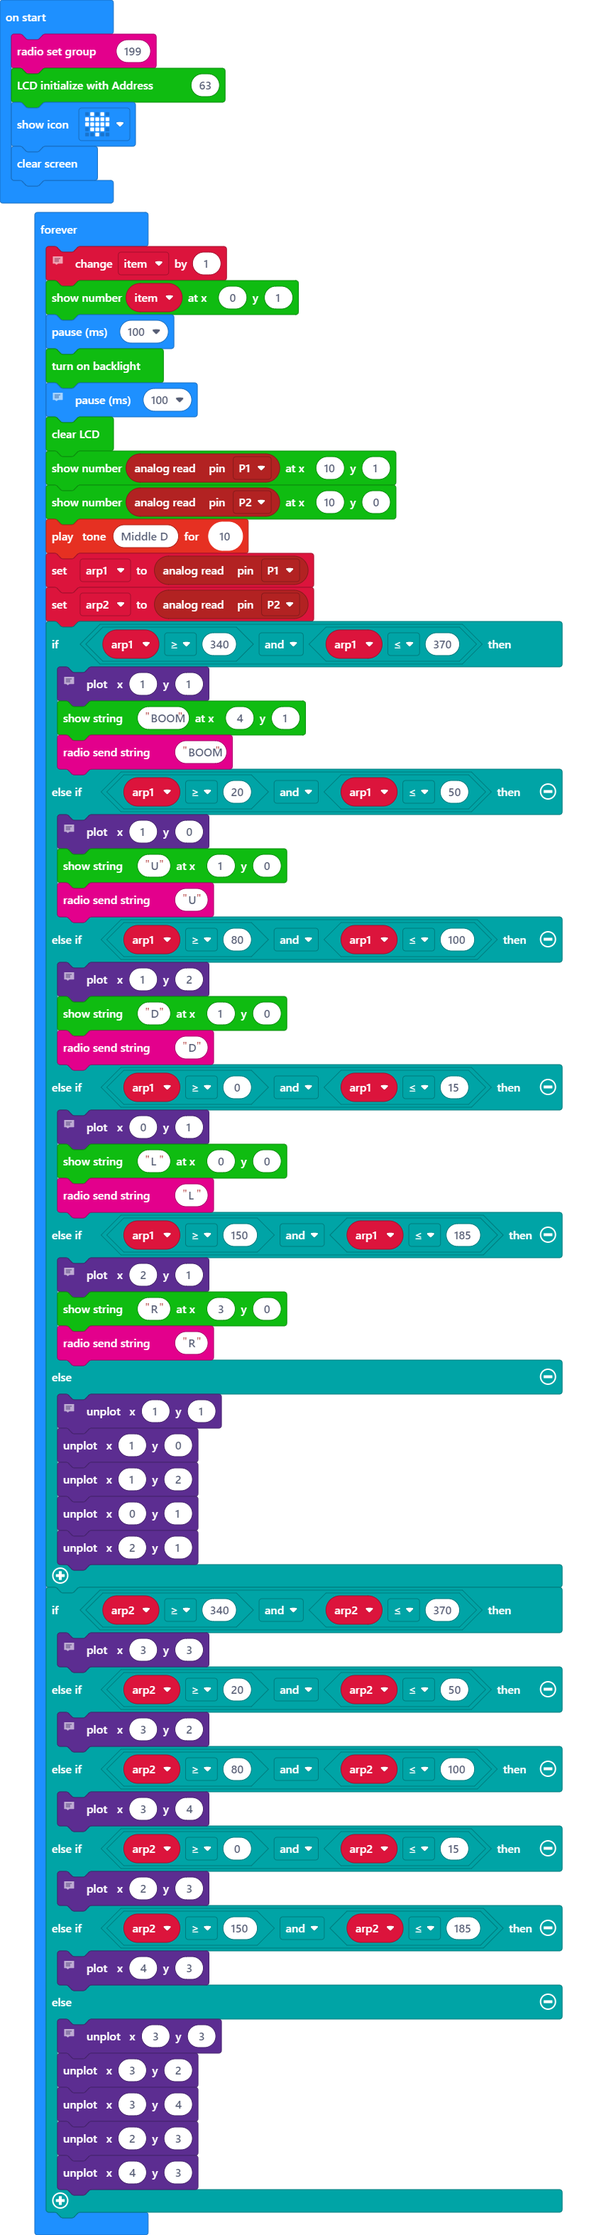
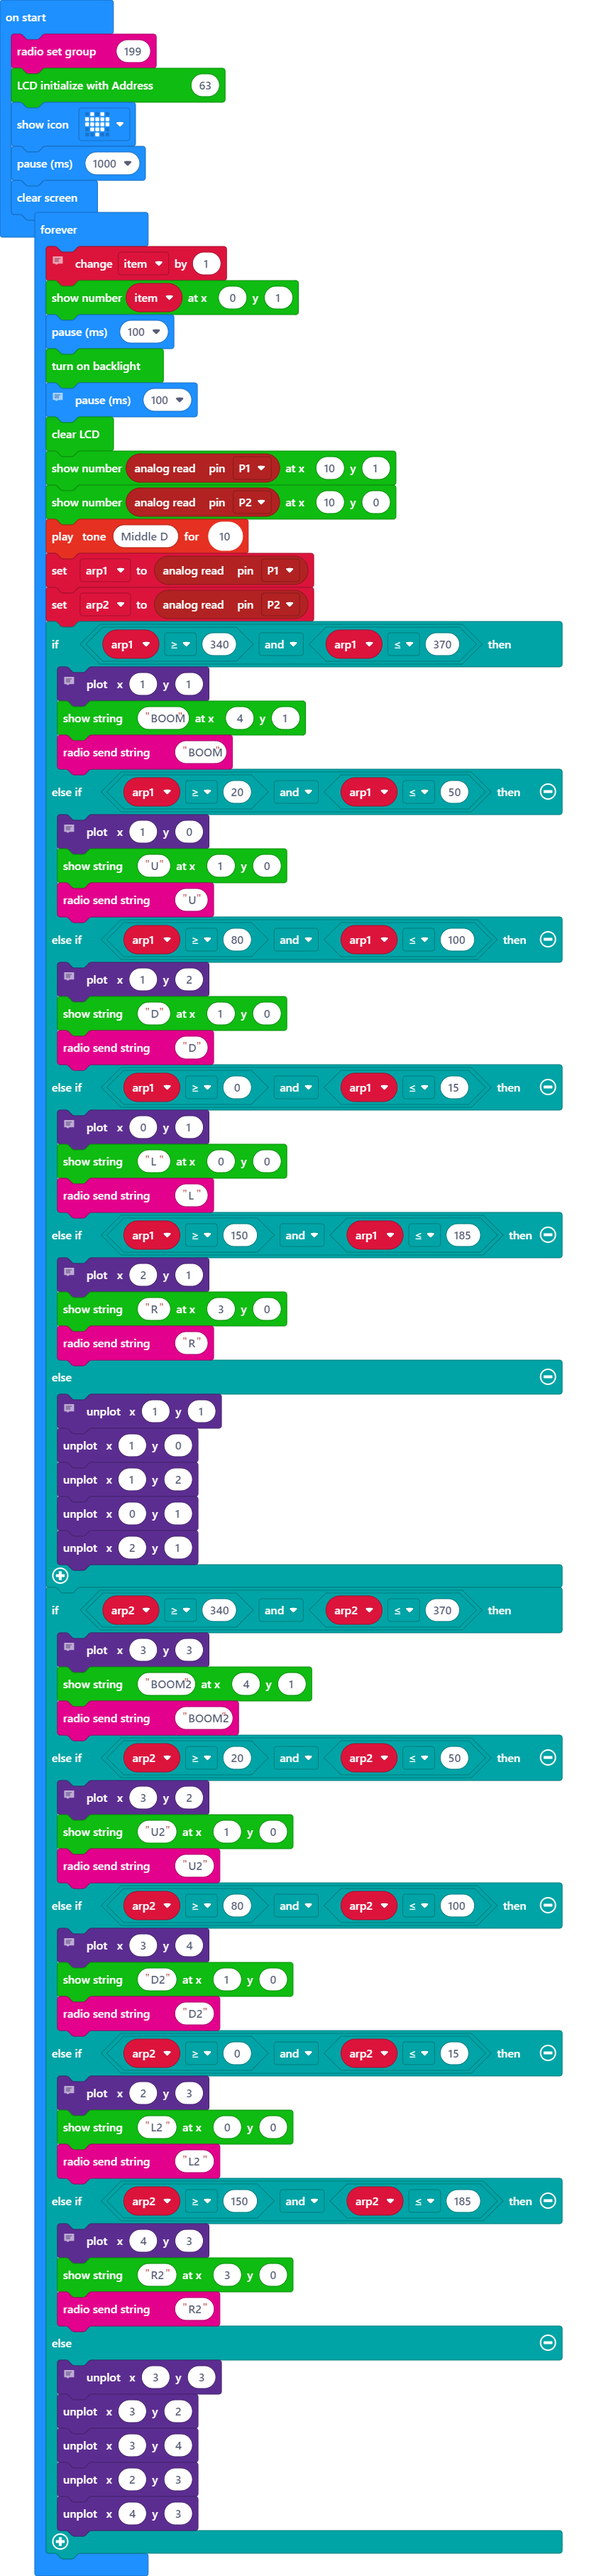
Update main.blocks, main.ts

diff --git a/main.ts b/main.ts
@@ -4,6 +4,7 @@ let item = 0
 radio.setGroup(199)
 I2C_LCD1602.LcdInit(63)
 basic.showIcon(IconNames.Heart)
+basic.pause(1000)
 basic.clearScreen()
 basic.forever(function () {
     // basic.showIcon(IconNames.Angry)
@@ -55,18 +56,28 @@ basic.forever(function () {
     if (arp2 >= 340 && arp2 <= 370) {
         // FIRE
         led.plot(3, 3)
+        I2C_LCD1602.ShowString("BOOM2", 4, 1)
+        radio.sendString("BOOM2")
     } else if (arp2 >= 20 && arp2 <= 50) {
         // UP
         led.plot(3, 2)
+        I2C_LCD1602.ShowString("U2", 1, 0)
+        radio.sendString("U2")
     } else if (arp2 >= 80 && arp2 <= 100) {
         // DOWN
         led.plot(3, 4)
+        I2C_LCD1602.ShowString("D2", 1, 0)
+        radio.sendString("D2")
     } else if (arp2 >= 0 && arp2 <= 15) {
         // LEFT
         led.plot(2, 3)
+        I2C_LCD1602.ShowString("L2", 0, 0)
+        radio.sendString("L2")
     } else if (arp2 >= 150 && arp2 <= 185) {
         // RIGHT
         led.plot(4, 3)
+        I2C_LCD1602.ShowString("R2", 3, 0)
+        radio.sendString("R2")
     } else {
         // EMPTY
         led.unplot(3, 3)
